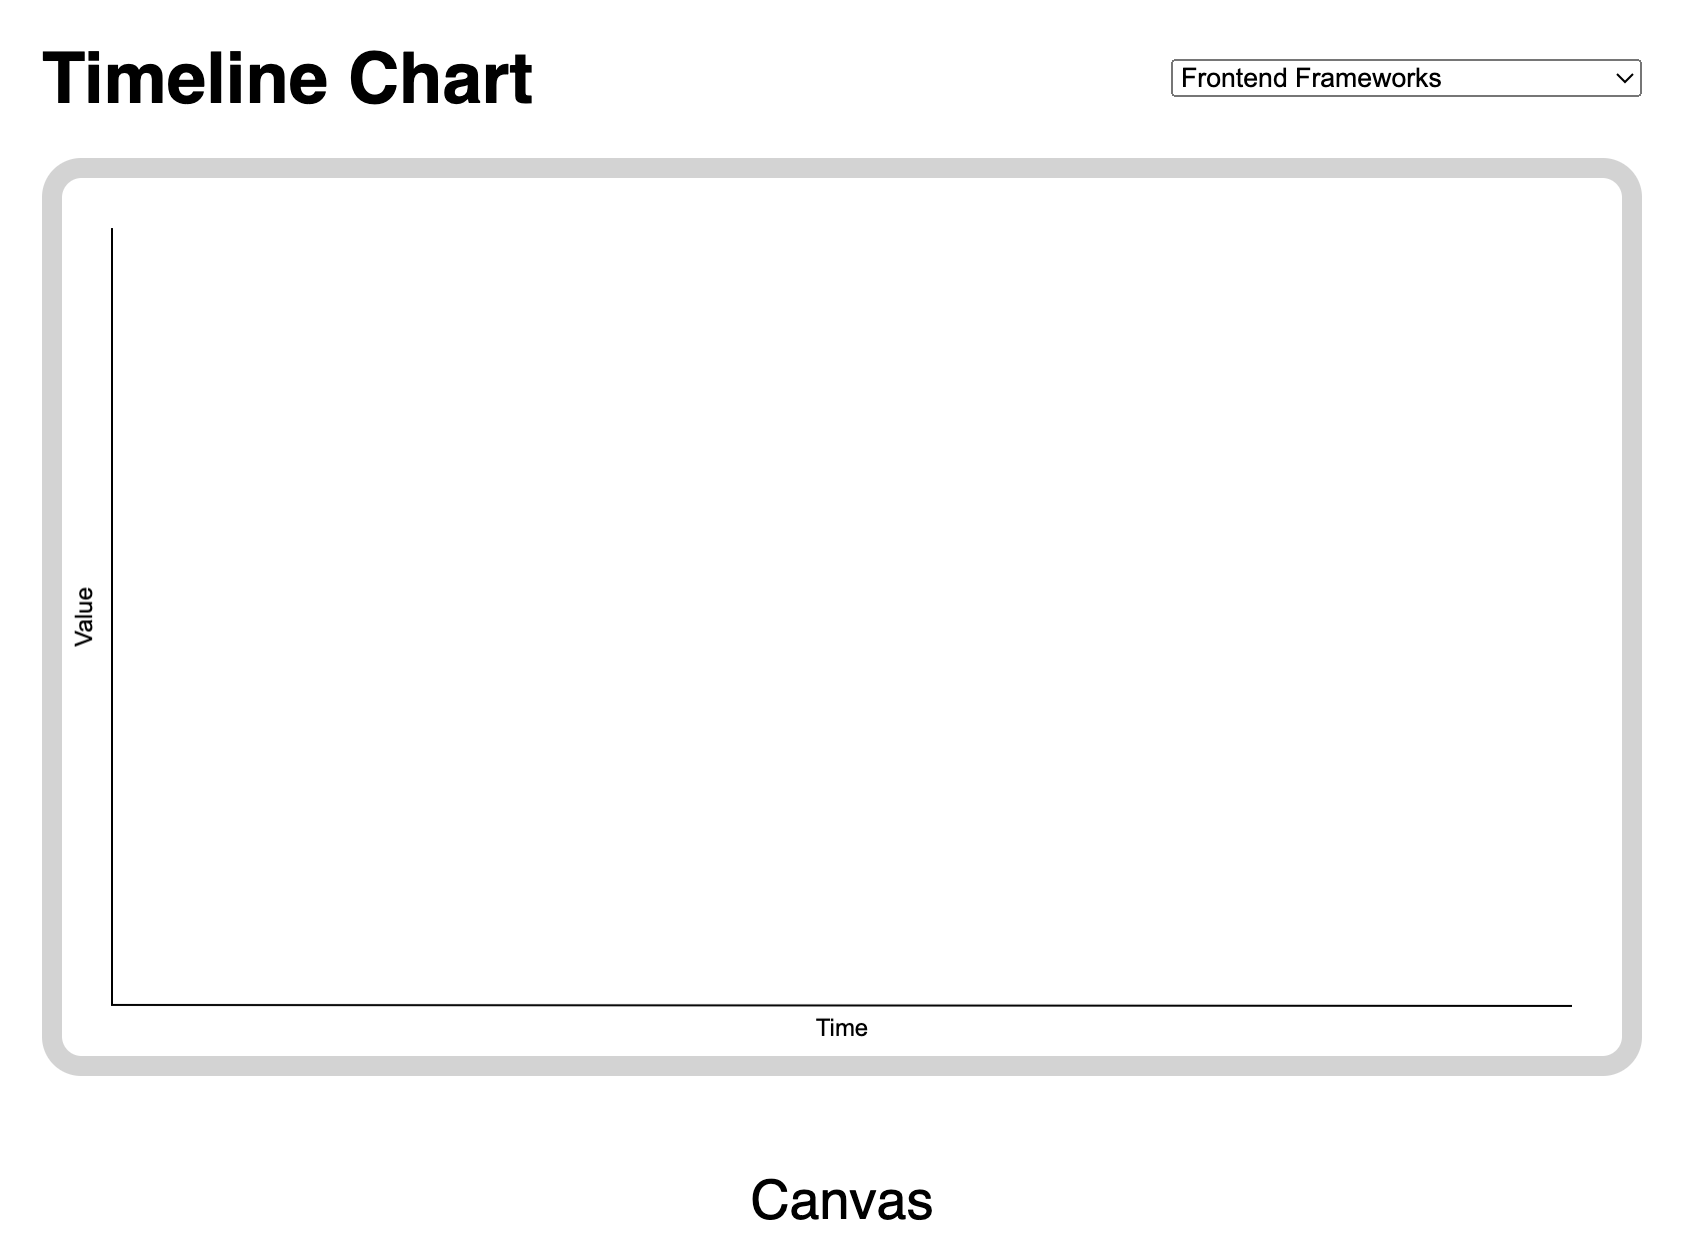
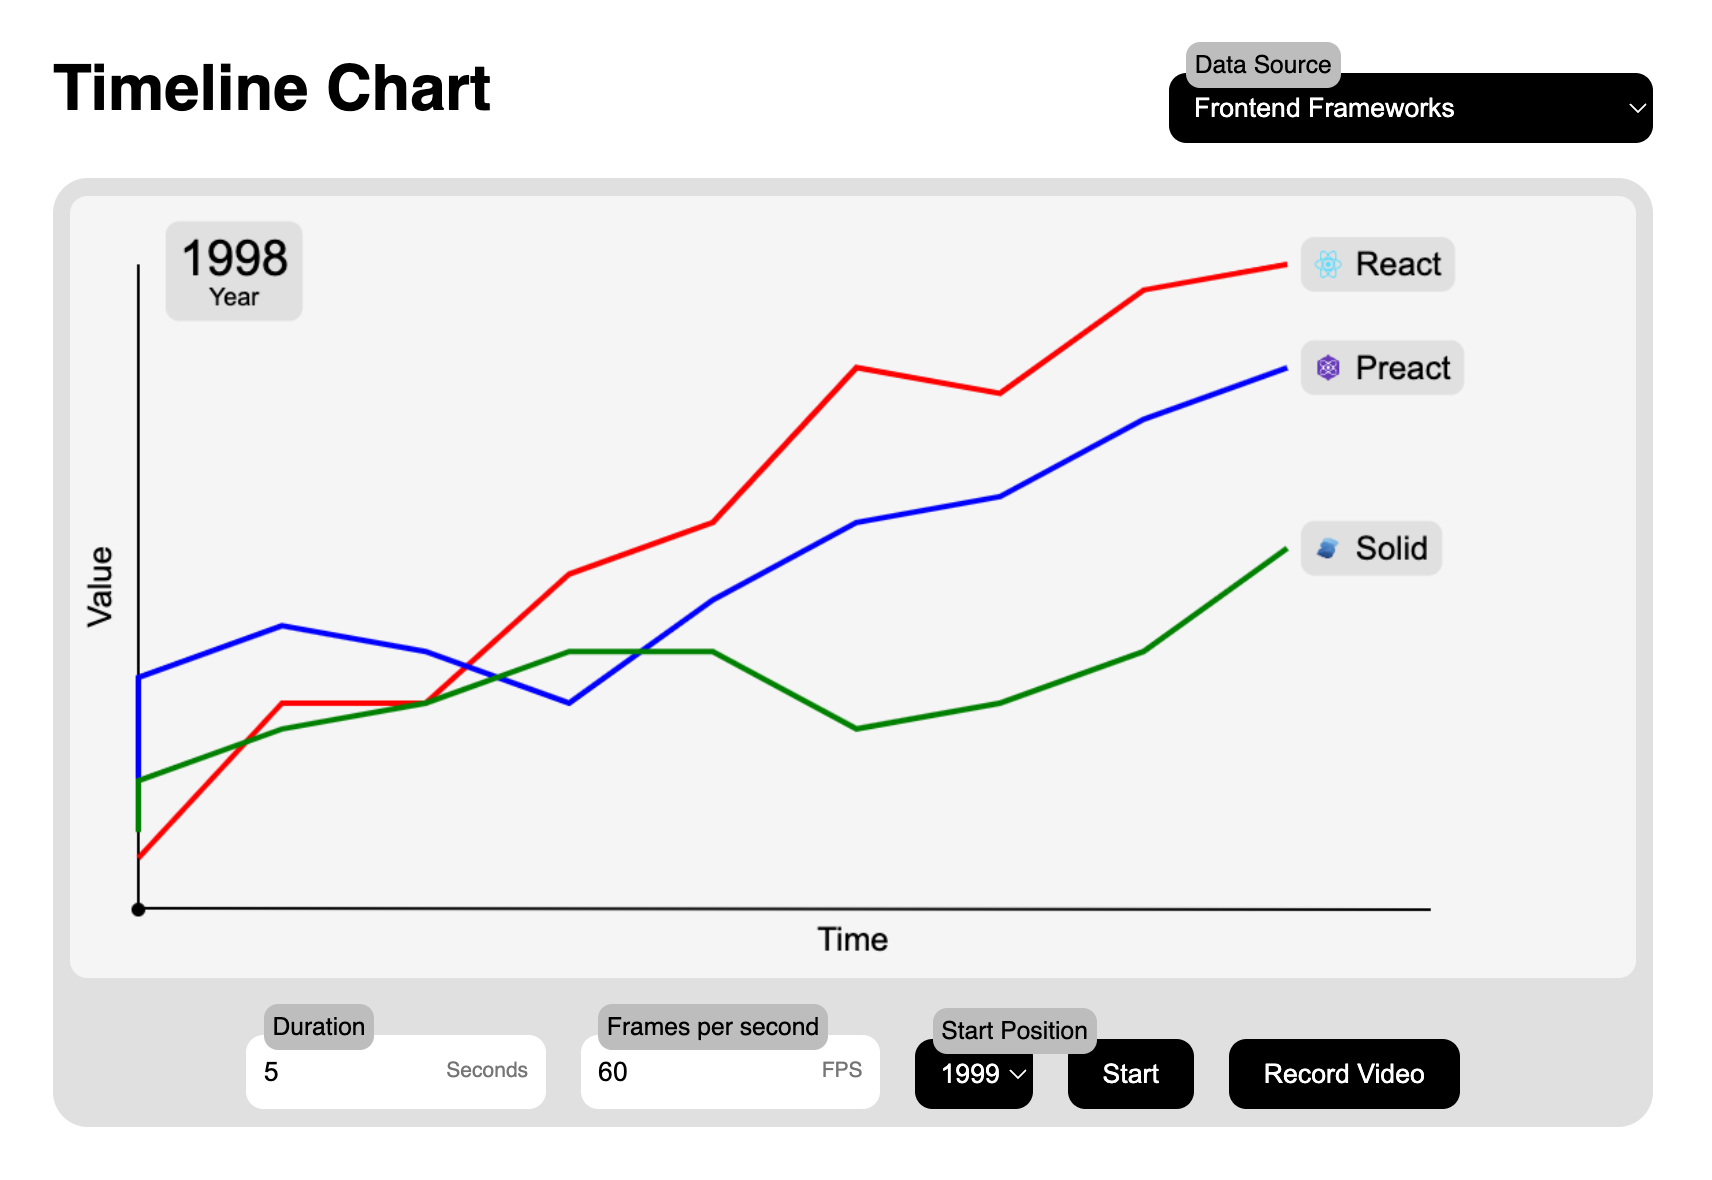
Customize configuration UI elements and implement scheduler

diff --git a/index.tsx b/index.tsx
@@ -1,9 +1,10 @@
 import { scale } from 'optica'
 import { type CSSProperties, useEffect, useRef, useState } from 'react'
 import { createRoot } from 'react-dom/client'
-import { Configuration } from './Configuration'
-import { addChartData, clearCanvas, intializeCanvas, renderLinesUntilIndex, renderStaticCanvasParts } from './canvas'
+import { addChartData, intializeCanvas } from './canvas'
 import { jsxFrameworkDownloads, largeCapCompanies } from './data'
+import { Configuration } from './markup/Configuration'
+import { Select } from './markup/Select'
 import { Color } from './style'
 
 document.body.style.display = 'flex'
@@ -62,43 +63,35 @@ const footerStyles: CSSProperties = {
 const App = () => {
   const canvasRef = useRef<HTMLCanvasElement>(null)
   const [data, setData] = useState(jsxFrameworkDownloads())
+  const [busy, setBusy] = useState(true)
 
   useEffect(() => {
     const canvas = canvasRef.current
     if (!canvas) return
     intializeCanvas(canvas)
+    setBusy(false)
   }, [])
 
   useEffect(() => {
     addChartData(data)
-    clearCanvas()
-    renderStaticCanvasParts()
-    renderLinesUntilIndex(10)
-
-    for (let index = 10; index < 30; index++) {
-      setTimeout(
-        () => {
-          clearCanvas()
-          renderStaticCanvasParts()
-          renderLinesUntilIndex(index)
-        },
-        (index - 10) * 1000,
-      )
-    }
   }, [data])
 
   return (
     <div style={appStyles}>
       <header style={headerStyles}>
         <h1 style={headingStyles}>Timeline Chart</h1>
-        <select onChange={event => setData(event.target.value === 'jsx' ? jsxFrameworkDownloads() : largeCapCompanies())} >
-          <option value="jsx">Frontend Frameworks</option>
-          <option value="market-capitalization">Companies by Market Capitalization</option>
-        </select>
+        <Select
+          placeholder="Data Source"
+          options={[
+            { label: 'Frontend Frameworks', value: 'jsx' },
+            { label: 'Companies by Market Capitalization', value: 'market-capitalization' },
+          ]}
+          onOption={(option) => setData(option === 'jsx' ? jsxFrameworkDownloads() : largeCapCompanies())}
+        />
       </header>
       <main style={contentStyles}>
         <canvas style={canvasStyles} ref={canvasRef} />
-        <Configuration />
+        <Configuration busy={busy} values={data.values} />
       </main>
       <footer style={footerStyles}>
         <p>Canvas</p>

diff --git a/markup/Input.tsx b/markup/Input.tsx
@@ -1,24 +1,6 @@
 import { scale } from 'optica'
-import { type CSSProperties, type JSX, useState } from 'react'
-import { Color } from './style'
-
-const buttonStyles: CSSProperties = {
-  display: 'flex',
-  alignItems: 'center',
-  border: 'none',
-  background: Color.black,
-  color: Color.white,
-  outline: 'none',
-  borderRadius: scale(10),
-  height: scale(40),
-  paddingLeft: scale(20),
-  paddingRight: scale(20),
-  cursor: 'pointer',
-}
-
-function Button({ style, ...props }: JSX.IntrinsicElements['button']) {
-  return <button type="submit" {...props} style={{ ...buttonStyles, ...style }} />
-}
+import type { CSSProperties, JSX } from 'react'
+import { Color } from '../style'
 
 const inputWrapperStyles: CSSProperties = {
   position: 'relative',
@@ -47,6 +29,7 @@ const descriptionLabelStyles: CSSProperties = {
   fontSize: scale(14),
   display: 'flex',
   alignItems: 'center',
+  whiteSpace: 'nowrap',
 }
 
 const unitLabelStyles: CSSProperties = {
@@ -60,7 +43,7 @@ const unitLabelStyles: CSSProperties = {
   pointerEvents: 'none',
 }
 
-function Input({
+export function Input({
   style,
   unit,
   onValue,
@@ -72,24 +55,6 @@ function Input({
       <label style={descriptionLabelStyles}>{placeholder}</label>
       <label style={unitLabelStyles}>{unit}</label>
       <input type="number" onChange={(event) => onValue(Number(event.target.value))} {...props} style={{ ...inputStyles, ...style }} />
-    </div>
-  )
-}
-
-const wrapperStyles: CSSProperties = {
-  display: 'flex',
-  alignItems: 'flex-end',
-  gap: scale(20),
-}
-
-export function Configuration() {
-  const [duration, setDuration] = useState(5)
-  const [fps, setFps] = useState(60)
-  return (
-    <div style={wrapperStyles}>
-      <Input placeholder="Duration" unit="Seconds" value={duration} onValue={setDuration} />
-      <Input placeholder="Frames per second" unit="FPS" value={fps} onValue={setFps} />
-      <Button>Restart</Button>
     </div>
   )
 }

diff --git a/markup/Configuration.tsx b/markup/Configuration.tsx
@@ -1,0 +1,51 @@
+import { scale } from 'optica'
+import { type CSSProperties, useState } from 'react'
+import type { Values } from '../data'
+import { schedule } from '../scheduler'
+import { Button } from './Button'
+import { Input } from './Input'
+import { Select } from './Select'
+
+export interface Configuration {
+  duration: number
+  fps: number
+  start: number
+  end: number
+}
+
+const wrapperStyles: CSSProperties = {
+  display: 'flex',
+  alignItems: 'flex-end',
+  gap: scale(20),
+  flexWrap: 'wrap',
+}
+
+// https://developer.mozilla.org/en-US/docs/Web/API/HTMLCanvasElement/captureStream
+
+export function Configuration({ busy, values }: { busy: boolean; values: Values<number> }) {
+  const [duration, setDuration] = useState(5)
+  const [fps, setFps] = useState(60)
+  const [start, setStart] = useState(10)
+  const [end, setEnd] = useState(values.length)
+
+  return (
+    <div style={wrapperStyles}>
+      <Input placeholder="Duration" unit="Seconds" value={duration} onValue={setDuration} />
+      <Input placeholder="Frames per second" unit="FPS" value={fps} onValue={setFps} />
+      <Select
+        value={start}
+        placeholder="Start Position"
+        options={values.map((value, index) => ({ label: String(value.unit), value: String(index) }))}
+        onOption={(index) => setStart(Number(index))}
+      />
+      <Select
+        value={end - start}
+        placeholder="End Position"
+        options={values.slice(start + 1).map((value, index) => ({ label: String(value.unit), value: String(index + start) }))}
+        onOption={(index) => setEnd(Number(index))}
+      />
+      <Button onClick={() => schedule({ duration, fps, start, end })}>{busy ? 'Rendering' : 'Start'}</Button>
+      <Button>Record Video</Button>
+    </div>
+  )
+}

diff --git a/markup/Select.tsx b/markup/Select.tsx
@@ -1,0 +1,59 @@
+import { scale } from 'optica'
+import type { CSSProperties, JSX } from 'react'
+import { Color } from '../style'
+
+const inputWrapperStyles: CSSProperties = {
+  position: 'relative',
+  marginTop: 20,
+}
+
+const descriptionLabelStyles: CSSProperties = {
+  position: 'absolute',
+  left: scale(10),
+  top: scale(-18),
+  background: Color.gray[400],
+  padding: scale(5),
+  borderRadius: scale(8),
+  color: 'black',
+  fontSize: scale(14),
+  display: 'flex',
+  alignItems: 'center',
+  whiteSpace: 'nowrap',
+}
+
+const selectStyles: CSSProperties = {
+  border: 'none',
+  background: Color.black,
+  color: Color.white,
+  outline: 'none',
+  borderRadius: scale(10),
+  height: scale(40),
+  paddingLeft: scale(10),
+  cursor: 'pointer',
+  minWidth: scale(140),
+}
+
+export function Select({
+  style,
+  onOption,
+  options,
+  placeholder,
+  ...props
+}: JSX.IntrinsicElements['select'] & {
+  options: { label: string; value: string }[]
+  onOption: (option: string) => void
+  placeholder: string
+}) {
+  return (
+    <div style={inputWrapperStyles}>
+      <label style={descriptionLabelStyles}>{placeholder}</label>
+      <select onChange={(event) => onOption(event.target.value)} {...props} style={{ ...selectStyles, ...style }}>
+        {options.map((option) => (
+          <option key={option.value} value={option.value}>
+            {option.label}
+          </option>
+        ))}
+      </select>
+    </div>
+  )
+}

diff --git a/scheduler.ts b/scheduler.ts
@@ -1,0 +1,27 @@
+import { clearCanvas, renderLinesUntilIndex, renderStaticCanvasParts } from './canvas'
+import type { Configuration } from './markup/Configuration'
+
+function renderUntilIndex(index: number) {
+  clearCanvas()
+  renderStaticCanvasParts()
+  renderLinesUntilIndex(index)
+}
+
+function renderWithDelay(index: number, end: number, fps: number) {
+  if (index >= end) {
+    return
+  }
+
+  const currentTime = performance.now()
+  renderUntilIndex(index)
+  const elapsedTime = performance.now() - currentTime
+  const delay = 1000 / fps - elapsedTime
+
+  setTimeout(() => renderWithDelay(index + 1, end, fps), delay)
+}
+
+export function schedule(configuration: Configuration) {
+  renderUntilIndex(configuration.start)
+  // Recursively rerender with delay until all values have been rendered.
+  renderWithDelay(configuration.start + 1, configuration.end, configuration.fps)
+}

diff --git a/markup/Button.tsx b/markup/Button.tsx
@@ -1,0 +1,22 @@
+import { scale } from 'optica'
+import type { CSSProperties, JSX } from 'react'
+import { Color } from '../style'
+
+const buttonStyles: CSSProperties = {
+  display: 'flex',
+  alignItems: 'center',
+  border: 'none',
+  background: Color.black,
+  color: Color.white,
+  outline: 'none',
+  borderRadius: scale(10),
+  height: scale(40),
+  paddingLeft: scale(20),
+  paddingRight: scale(20),
+  cursor: 'pointer',
+  whiteSpace: 'nowrap',
+}
+
+export function Button({ style, ...props }: JSX.IntrinsicElements['button']) {
+  return <button type="submit" {...props} style={{ ...buttonStyles, ...style }} />
+}

diff --git a/README.md b/README.md
@@ -1,14 +1,20 @@
 <p align="center">
-  <img src="https://github.com/tobua/chinese-whisper-ai/raw/main/screenshot.png" alt="timeline-chart" width="300">
+  <img src="https://github.com/tobua/timeline-chart/raw/main/screenshot.png" alt="timeline-chart" width="300">
 </p>
 
 # Timeline Chart - Challenge for Algorithm Arena
 
-Dynamically generated timeline chart in the browser. Submission for the seventh weekly challenge on [Algorithm Arena](https://github.com/Algorithm-Arena/weekly-challenge-7-scores-timeline). The project uses **Canvas**, **Bun**, **React**, **TypeScript**, **Rsbuild** and **Biome**.
+Dynamically generated timeline chart in the browser. Submission for the seventh weekly challenge on [Algorithm Arena](https://github.com/Algorithm-Arena/weekly-challenge-7-scores-timeline). The project uses **Canvas**, **Cursor AI**, **Bun**, **React**, **TypeScript**, **Rsbuild** and **Biome**.
 
 ## Description
 
-TODO
+The chart is rendered anew with each frame in an HTML `canvas` element. This way the chart is rendered smoothly and appears very dynamic. Rendered in the browser the chart is also fully responsive.
+
+It's possible to pick several data sources, some of them real and others filled with random values at runtime.
+
+Using the options below the chart it's possible to configure various parameters used to render the chart according to user needs.
+
+I don't think I've ever been able to use AI coding assistance more effectively than while implementing this challenge in [Cursor AI](https://cursor.sh). Since my canvas knowledge was super limited prior to implementing this and the default LLM knows a lot about this interface and how it's used, it was surprisingly helpful.
 
 ## Demo
 
